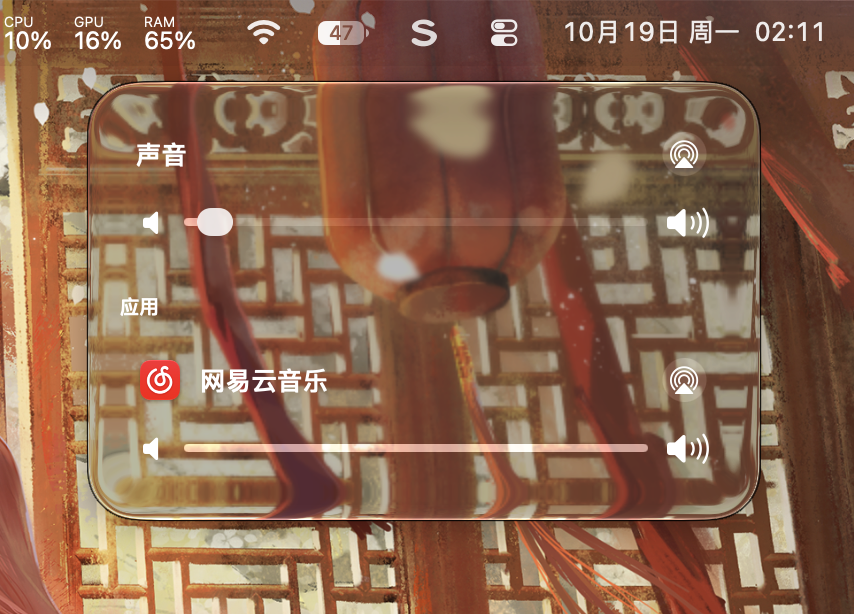
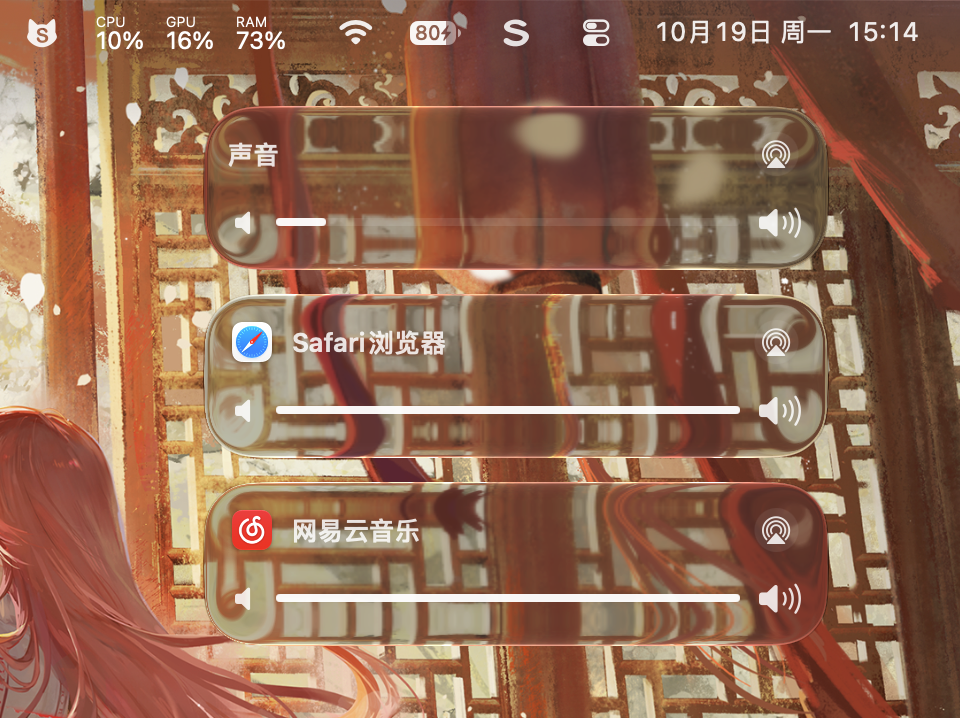
docs: update real product screenshot

diff --git a/pic/README.md b/pic/README.md
@@ -1,6 +1,6 @@
 # Sona icons
 
-`sona-menu-bar.png` is the current application screenshot provided by the project author on October 19, 2026, used in both READMEs. The original image is preserved without retouching. `官网演示图.png` remains the source for the website's earlier hero screenshot.
+`sona-menu-bar.png` is the latest application screenshot provided by the project author on October 19, 2026, used in both READMEs and on the website. It shows a top-level sound volume control and separate controls for Safari and NetEase Cloud Music. The original image is preserved without retouching. Other source images remain unchanged.
 
 `SonaIcon.png` is the 1024 px App icon source used by the root Makefile to build `App/Resources/AppIcon.icns`. `SonaIcon.svg` is its editable vector artwork. `SonaMark.svg` is the shared, unstyled Flow S contour.
 

diff --git a/README.md b/README.md
@@ -6,7 +6,7 @@ Control each app's volume and audio outputs from the macOS menu bar.
 
 [简体中文](README.zh-CN.md) · [Build & install](docs/BUILDING.md) · [Changelog](CHANGELOG.md)
 
-<img src="pic/sona-menu-bar.png" alt="Sona running on macOS, with output volume and independent volume controls for NetEase Cloud Music." width="720" />
+<img src="pic/sona-menu-bar.png" alt="Sona running on macOS, with a top-level sound volume control and independent volume controls for Safari and NetEase Cloud Music." width="720" />
 
 Actual application screenshot, provided by the project author.
 

diff --git a/README.zh-CN.md b/README.zh-CN.md
@@ -6,7 +6,7 @@
 
 [English](README.md) · [构建与安装](docs/BUILDING.md) · [更新记录](CHANGELOG.md)
 
-<img src="pic/sona-menu-bar.png" alt="Sona 在 macOS 上的实际运行界面，展示输出音量与网易云音乐的独立音量控制。" width="720" />
+<img src="pic/sona-menu-bar.png" alt="Sona 在 macOS 上的实际运行界面，顶部为声音音量控制，下方为 Safari 浏览器与网易云音乐的独立音量控制。" width="720" />
 
 实际应用截图，由项目作者提供。
 
